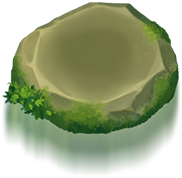
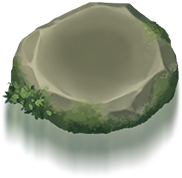
added label to button and desaturated disabled button sprite

diff --git a/src/button.ts b/src/button.ts
@@ -13,7 +13,7 @@ export class Button
     private enabled = true;
     private pointerOver = false;
     
-    constructor(spriteName: string, positionX: number, positionY: number, anchor: number, app: PIXI.Application)
+    constructor(spriteName: string, label: string, positionX: number, positionY: number, anchor: number, app: PIXI.Application)
     {
         // Get relevant textures
         this.buttonTexture = PIXI.Texture.from('./images/ui/' + spriteName + '_normal.png');
@@ -27,6 +27,8 @@ export class Button
         this.buttonSprite.anchor.set(anchor);
         this.buttonSprite.x = positionX;
         this.buttonSprite.y = positionY;
+        this.buttonSprite.width = 182;
+        this.buttonSprite.height = 178;
         // Make button interactive
         this.buttonSprite.interactive = true;
         this.buttonSprite.buttonMode = true;
@@ -36,7 +38,14 @@ export class Button
         this.buttonSprite.on('pointerdown', () => this.onPointerDown());
         this.buttonSprite.on('pointerup', () => this.onPointerUp());
 
+        // Add text to button
+        const spinButtonText = new PIXI.Text(label, { fontFamily: 'Arial', fontSize: 32, fill: 0x000000, align: 'center' });
+        spinButtonText.anchor.set(0.5);
+        spinButtonText.x = positionX - (this.buttonSprite.width * 0.5);
+        spinButtonText.y = positionY - (this.buttonSprite.height * 0.5) - 30;
+        
         app.stage.addChild(this.buttonSprite);
+        app.stage.addChild(spinButtonText);
     }
     
     public enable()
@@ -53,16 +62,16 @@ export class Button
     
     onPointerOver()
     {
+        this.pointerOver = true;
         if (!this.enabled) { return; }
         this.buttonSprite.texture = this.buttonHoverTexture;
-        this.pointerOver = true;
     }
     
     onPointerOut()
     {
+        this.pointerOver = false;
         if (!this.enabled) { return; }
         this.buttonSprite.texture = this.buttonTexture;
-        this.pointerOver = false;
     }
     
     onPointerDown()

diff --git a/src/app.ts b/src/app.ts
@@ -27,23 +27,22 @@ export class GameApp
         backgroundSprite.x = 0;
         backgroundSprite.y = 0;
         backgroundSprite.anchor.set(0.0);
-        
         // Add the sprite to the scene we are building
         this.app.stage.addChild(backgroundSprite);
 
-        
         // Create a spin button in the bottom right of the screen
         const buttonPosX = this.app.screen.width;
         const buttonPosY = this.app.screen.height;
-        this.spinButton = new Button('btn_spin', buttonPosX, buttonPosY, 1.0, this.app);
+        this.spinButton = new Button('btn_spin', 'Spin', buttonPosX, buttonPosY, 1.0, this.app);
         this.spinButton.onPress = () => this.onButtonDown();
+        // Add audio for button
+        this.spinButtonSound = new Howl({
+            src: ['./sounds/Start_Button.mp3']
+        });
         
         // Initialise slots array
         this.slots = Array<Slot>();
         
-        this.spinButtonSound = new Howl({
-            src: ['./sounds/Start_Button.mp3']
-        });
     }
     
     onButtonDown()
